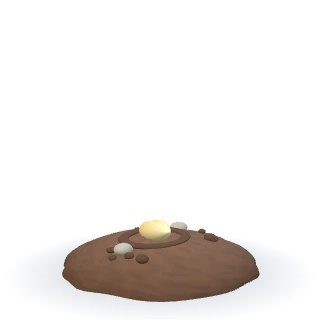
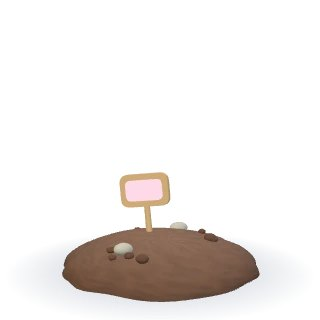
An idea is drawn as a marker in the soil, not a seed on top of it
The seed used to lie on the mound in a ring of soil, and a nub in a ring
on a round mound read as a breast. The seed is under the soil now. What
shows is the marker a gardener leaves where one was sown: a short stake
with a wooden tag, faced in the colour that kind will flower in, so each
idea still looks like its own and the tag shows on light and dark alike.
It stands shorter than any seedling.

The twelve seed pictures and their copies for link previews are retaken.
`npm run plants -- seed` retakes one stage, leaving the other pictures
as they were.

Claude-Session: https://claude.ai/code/session_014phnNo8cpPEmhQvBUzbELr

Changed region(s): [[0.375, 0.5312, 0.5938, 0.7812]]

diff --git a/src/plants/models.js b/src/plants/models.js
@@ -6,7 +6,8 @@
 // They're grown, not drawn once. `buildPlant(stage, kind)` returns a THREE.Group about 2 units
 // wide, standing on y = 0, and `kind` (any whole number) says what sort of plant it is: the
 // outline, markings and green of its leaves, how they're set round the stem, how tall it stands
-// and which way it leans, what its flowers are like, what its seed looked like, and the pebbles
+// and which way it leans, what its flowers are like, what its seed looked like (a seedling may
+// still wear the coat), the colour on the marker where an idea is sown, and the pebbles
 // in its soil (see `traitsOf`). A kind keeps all of that from seed to flower, so a project's
 // plant is still recognisably its own as it grows. The same kind always grows the same plant,
 // and kind 0 is the plant as it was first drawn.
@@ -254,6 +255,15 @@ function petalGeometry(form){
   if (taper) { const p = g.attributes.position; for (let i = 0; i < p.count; i++) { const k = 1 - taper * Math.pow(Math.max(0, p.getX(i)), 2); p.setY(i, p.getY(i) * k); p.setZ(i, p.getZ(i) * k); } g.computeVertexNormals(); }
   return g;
 }
+/** A plant marker's tag: a slab `w` wide and `h` tall with rounded corners, `d` thick, centred on its middle. */
+function tagGeometry(w, h, d){
+  const x = w / 2, y = h / 2, c = Math.min(x, y) * .55, sh = new THREE.Shape();
+  sh.moveTo(-x + c, -y); sh.lineTo(x - c, -y); sh.quadraticCurveTo(x, -y, x, -y + c); sh.lineTo(x, y - c); sh.quadraticCurveTo(x, y, x - c, y);
+  sh.lineTo(-x + c, y); sh.quadraticCurveTo(-x, y, -x, y - c); sh.lineTo(-x, -y + c); sh.quadraticCurveTo(-x, -y, -x + c, -y);
+  const g = new THREE.ExtrudeGeometry(sh, { depth: d, bevelEnabled: false, curveSegments: 6 });
+  g.translate(0, 0, -d / 2);
+  return g;
+}
 /** A small flower: this kind's petals round a warm heart. */
 function flower(at, size, turn, T, P, r){
   const g = new THREE.Group(), [len, wid, out] = PETALS[T.petalForm], n = T.petals, w = wid * Math.min(1, Math.sqrt(5 / n));
@@ -282,11 +292,22 @@ function bud(tip, T, P, L, r){
 }
 
 const BUILD = {
-  // An idea: a seed lying in the soil, not yet anything.
+  // An idea: sown, and not yet anything. The seed is under the soil, so what shows is the
+  // marker a gardener leaves where one was planted: a short stake with a tag in the colour
+  // this kind will flower in. (The seed used to lie on top, in a ring of soil. On a round
+  // mound, a nub in a ring read as something else entirely.)
   seed(g, T, P){
-    const S = SEEDS[T.seed], s = new THREE.Mesh(seedGeometry(T.seed), P.seed), [dx, dz] = T.seedAt;
-    s.scale.set(...S.size); s.position.set(-.02 + dx, TOP + .05 - (T.seed === 'pea' ? .03 : 0), .08 + dz); s.rotation.set(-.32, T.seedTurn, .35); g.add(s);
-    const dimple = new THREE.Mesh(new THREE.TorusGeometry(.26, .045, 10, 36), P.soil); dimple.rotation.x = Math.PI / 2; dimple.scale.set(1, 1.2, .5); dimple.position.set(-.02 + dx, TOP - .014, .08 + dz); g.add(dimple);
+    const [dx, dz] = T.seedAt, x = -.16 + dx * 2, z = -.04 + dz * 2, wood = P.pebble.clone();
+    wood.color.set('#D2AE7C'); wood.roughness = .8;
+    // The tag is wood too, so it shows on a light page and a dark one alike, with a face of the flower's colour on each side.
+    // (It stands shorter than any seedling: each stage is taller than the one before it.)
+    const m = new THREE.Group(), stake = new THREE.Mesh(new THREE.CylinderGeometry(.024, .03, .52, 10), wood);
+    const tag = new THREE.Mesh(tagGeometry(.46, .3, .05), wood), face = new THREE.Mesh(tagGeometry(.35, .19, .075), P.petal);
+    stake.position.y = .19; tag.position.set(0, .43, .02); face.position.copy(tag.position);
+    m.add(stake, tag, face);
+    m.position.set(x, TOP * Math.sqrt(Math.max(0, 1 - (Math.hypot(x, z) / R) ** 2)) - .05, z);
+    m.rotation.set(-.08, Math.sin(T.seedTurn) * .3, .1 + Math.cos(T.seedTurn) * .07);
+    g.add(m);
   },
   // Just started: a short stem, its two seed leaves, and the first of its own.
   seedling(g, T, P, r){

diff --git a/README.md b/README.md
@@ -299,12 +299,13 @@ seed or a plant.
 
 | What people read | What it means | Drawn as | In the record |
 | --- | --- | --- | --- |
-| **Idea** | Nothing's been built yet. | a seed | no `subject` |
+| **Idea** | Nothing's been built yet. | a seed, sown: a marker in the soil | no `subject` |
 | **Project**, just started | There's a repo and a first sketch. | a seedling | `stage: seedling` |
 | **Project**, taking shape | It works, and it's still changing. | a young plant | `stage: young` |
 | **Project**, established | People use it and rely on it. | an established plant | `stage: established` |
 
-Each has a small 3D model (`src/plants/models.js`): a seed lying in a mound of soil, a stem
+Each has a small 3D model (`src/plants/models.js`): a mound of soil with a marker where the
+seed was sown (the seed itself is under the soil), a stem
 with its first two leaves, a stem with leaves up it, and several stems in flower. They share
 one mound and one framing, so how big each stands says how far along it is.
 
@@ -313,7 +314,8 @@ its own kind of plant, picked from its record's address (`plantKind` in `ui/bits
 it's the same plant for everyone who sees it, wherever it shows. A kind decides the outline
 of its leaves (oval, heart, lance, round, lobed or ruffled), their markings and green, whether
 they come singly, in pairs or in threes, how tall it stands and which way it leans, the colour
-and petals of its flowers, which seed it started as, and the pebbles in its soil. A kind keeps
+and petals of its flowers (the colour on its marker while it's still an idea), which seed it
+started as (a seedling may still wear the coat), and the pebbles in its soil. A kind keeps
 all of that as it grows, so the seedling an idea becomes is recognisably the same plant when
 it's established. Kind 0 is the plant as first drawn, and it's what the steps of asking show.
 
@@ -323,7 +325,8 @@ shows), and that's what shows on cards, lists, gardens and the first step of ask
 ask's own page and in the preview beside those steps the model itself turns slowly, the same
 kind as its picture, drawn by one shared renderer that loads only when a plant is on screen
 (`src/plants/live.js`); without WebGL, or with reduced motion on, the picture stays.
-`npm run plants` takes the pictures again after a model changes, and `src/plants/sheet.html`
+`npm run plants` takes the pictures again after a model changes (`npm run plants -- seed`
+for one stage only, so the others aren't rewritten), and `src/plants/sheet.html`
 on the dev server shows every kind turning, side by side.
 
 ## What you've helped with
